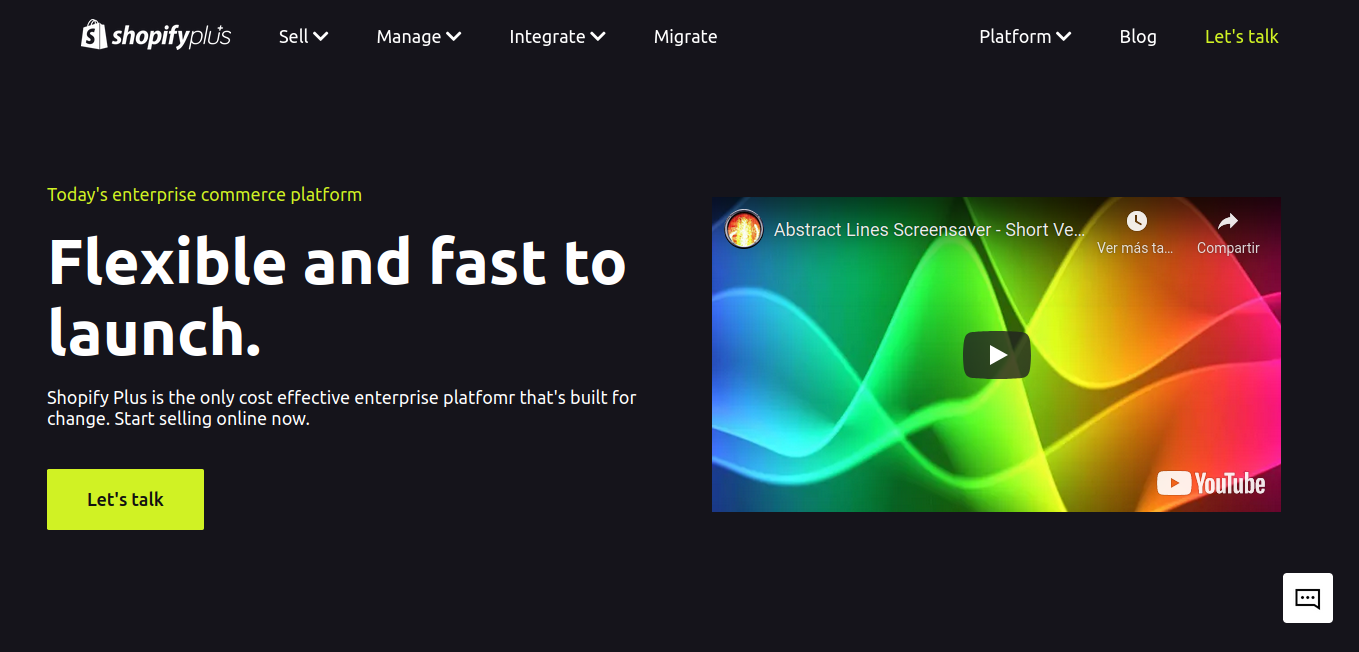
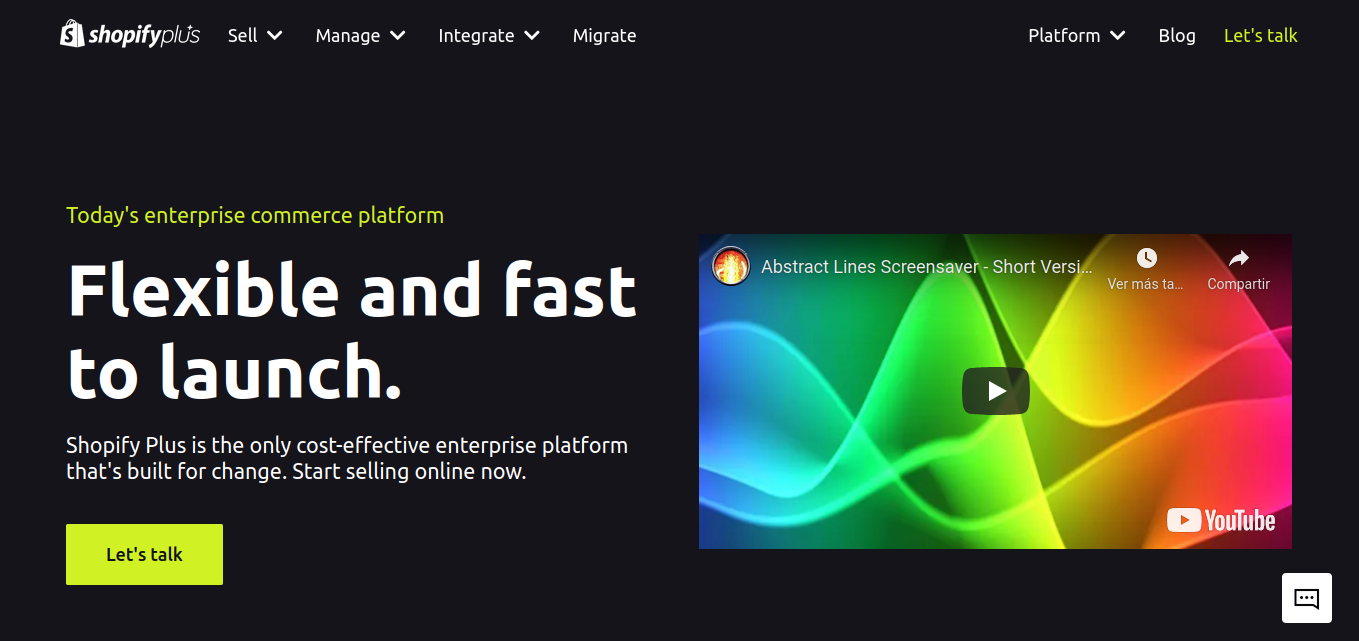
[fix: files] fix misspelled words in index.html and UI details in styles.css

diff --git a/css/styles.css b/css/styles.css
@@ -69,7 +69,6 @@ button {
 /* presentation */
 .presentation {
   background-color: var(--bg-indigo);
-  height: 100vh;
   padding: 10px 50px;
 }
 
@@ -154,7 +153,21 @@ a:focus {
 
 .drop-item li:first-child {
   margin-bottom: 10px;
-  border-bottom: 1px solid #ccc;
+  position: relative;
+}
+
+.drop-item li:first-child::after {
+  content: '';
+  position: absolute;
+  left: 1rem;
+  bottom: -0.5rem;
+  height: 1px;
+  width: calc(100% - 2rem);
+  background-color: #a7a9aa;
+}
+
+.drop-item li:nth-child(2) {
+  margin-top: 16px;
 }
 
 .drop-item li:hover {
@@ -176,7 +189,7 @@ a:focus {
 
 /* menu */
 .img-shop {
-  width: 150px;
+  width: 140px;
   color: #fff;
 }
 
@@ -191,14 +204,16 @@ a:focus {
 .video {
   width: 50%;
   color: #fff;
+  padding: 20px;
 }
 
 .description h2 {
-  font-size: 3.5rem;
+  font-size: 4rem;
 }
 
 .description > p {
   margin: 20px auto;
+  font-size: 1.2rem;
 }
 
 .btn-talk {
@@ -218,4 +233,10 @@ a:focus {
 
 .video-intro {
   width: 100%;
+}
+
+@media only screen and (min-width: 992px) {
+  .presentation {
+    height: 100vh;
+  }
 }

diff --git a/index.html b/index.html
@@ -34,7 +34,7 @@
                 <li><a href="#">Omnichannel commerce</a></li>
                 <li><a href="#">Headless commerce</a></li>
                 <li><a href="#">Campaigns and flash sales</a></li>
-                <li><a href="#">Retails and point of sale</a></li>
+                <li><a href="#">Retail and point of sale</a></li>
                 <li><a href="#">B2B ecommerce</a></li>
               </ul>
             </li>
@@ -94,7 +94,7 @@
         <div class="description">
           <p class="color-main">Today's enterprise commerce platform</p>
           <h2>Flexible and fast to launch.</h2>
-          <p>Shopify Plus is the only cost effective enterprise platfomr that's built for change. Start selling online now.</p>
+          <p>Shopify Plus is the only cost-effective enterprise platform that's built for change. Start selling online now.</p>
           <button class="btn btn-talk" href="#">Let's talk</button>
         </div>
         <div class="video">
